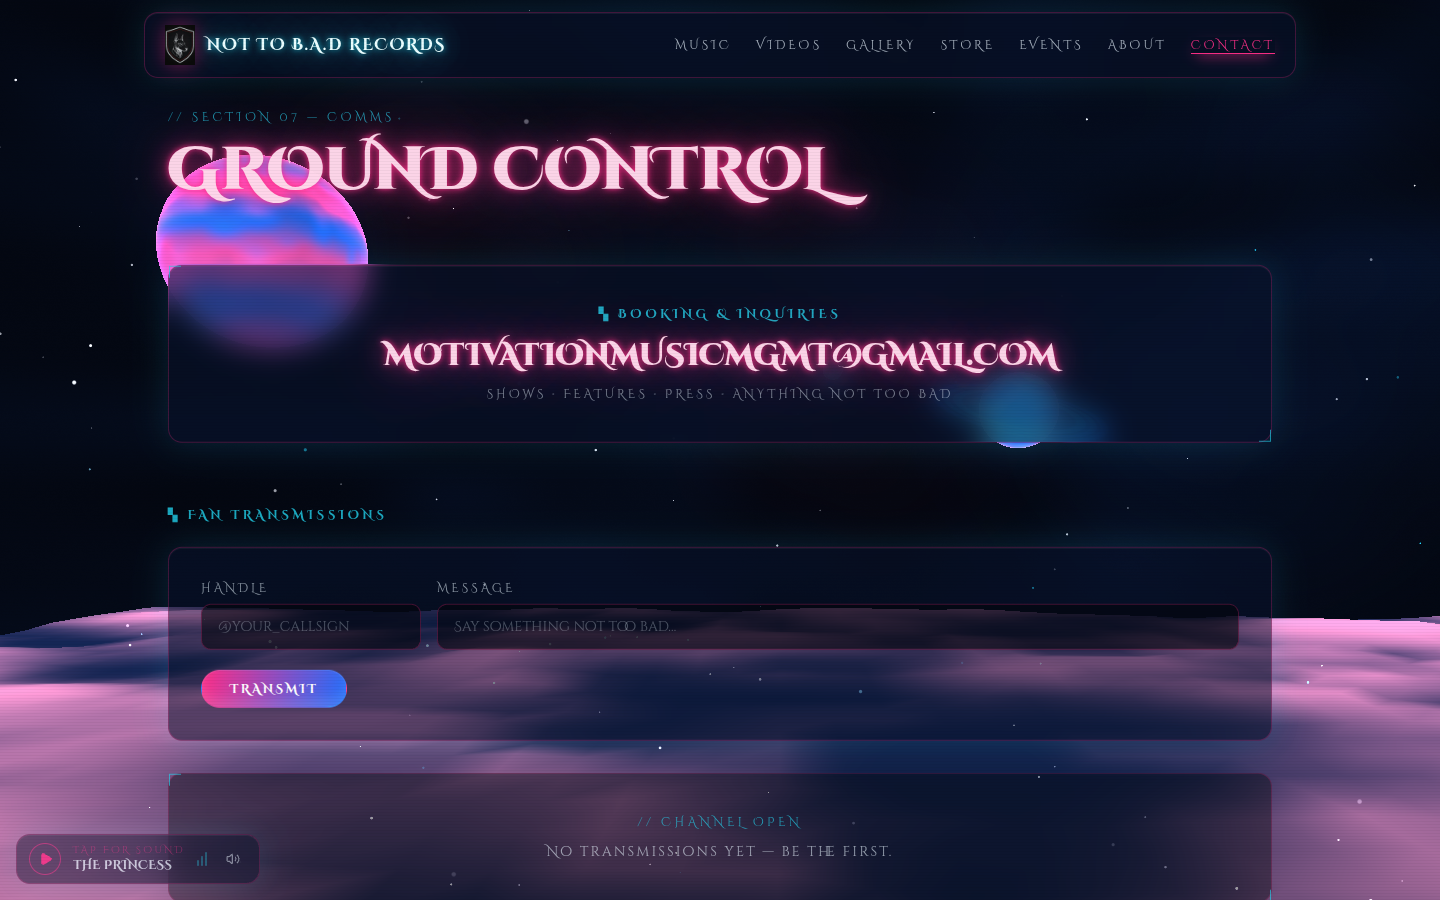
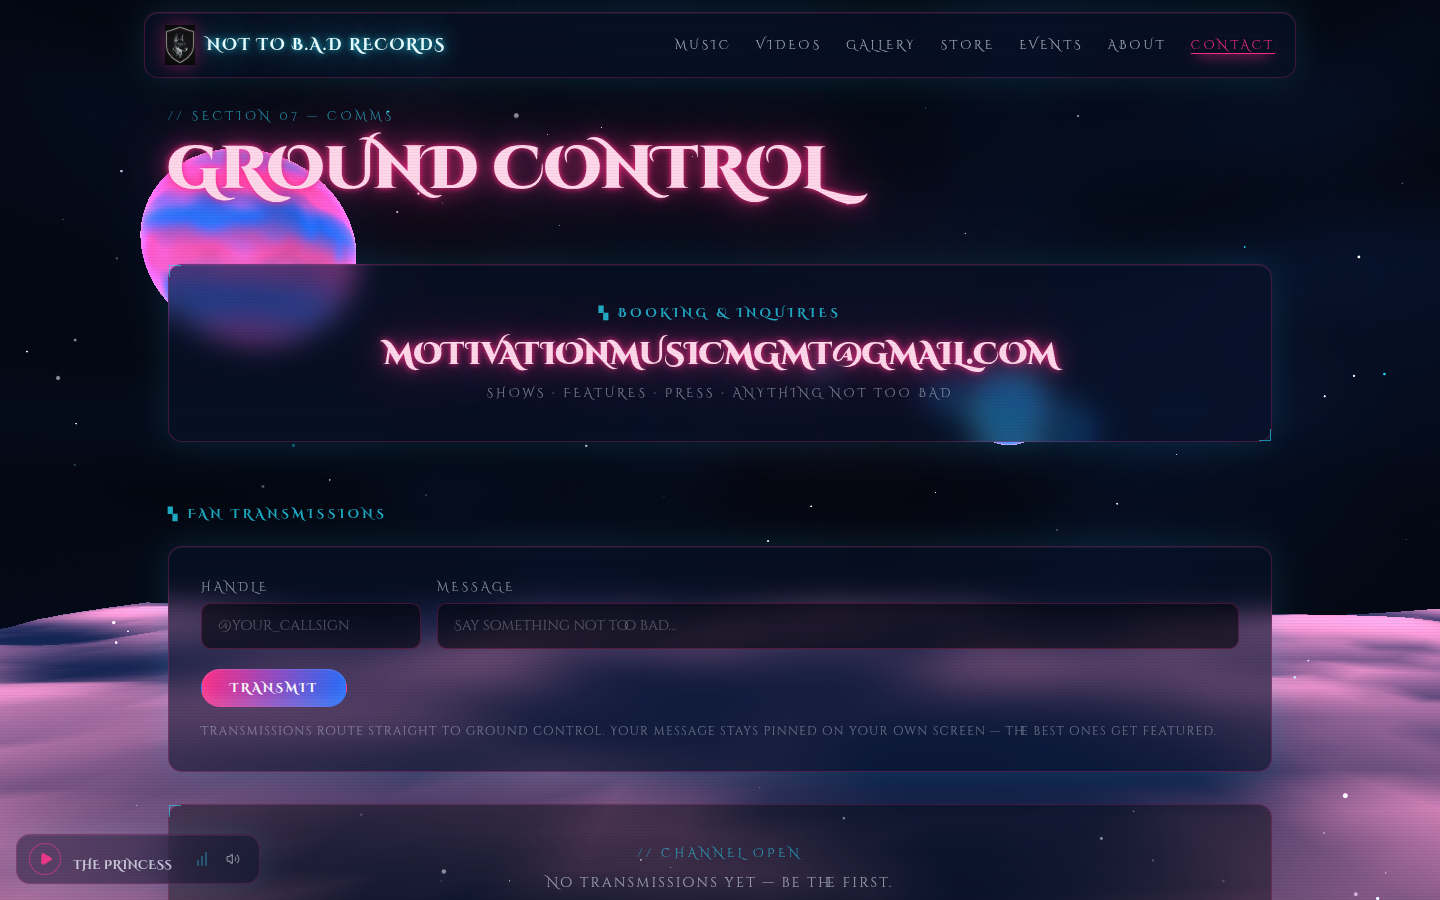
Fan transmissions actually reach the label
Guestbook posts now relay to the booking inbox instead of dying in the
visitor's browser. Delivery is awaited before the card is added, so a
message that fails to send shows an error rather than a false success.
The relay itself moves to lib/relay.ts, shared with the newsletter.

Claude-Session: https://claude.ai/code/session_01BqghB9EY3JXAhu3KfkDg6k

diff --git a/components/fanhub/guestbook-wall.tsx b/components/fanhub/guestbook-wall.tsx
@@ -7,6 +7,7 @@ import { Radio } from "lucide-react";
 import { guestbookEntries, type GuestbookEntry } from "@/lib/content";
 import { ShimmerButton } from "@/components/magicui/shimmer-button";
 import { useReducedMotion } from "@/components/sections/use-reduced-motion";
+import { relayToGroundControl } from "@/lib/relay";
 
 const STORAGE_KEY = "ntb-guestbook";
 
@@ -33,6 +34,7 @@ export function GuestbookWall() {
   const [handle, setHandle] = useState("");
   const [message, setMessage] = useState("");
   const [error, setError] = useState("");
+  const [sending, setSending] = useState(false);
 
   // Hydrate persisted entries after mount to avoid SSR mismatch.
   useEffect(() => {
@@ -49,7 +51,7 @@ export function GuestbookWall() {
     }
   }, []);
 
-  const handleSubmit = (event: FormEvent) => {
+  const handleSubmit = async (event: FormEvent) => {
     event.preventDefault();
     const trimmedHandle = handle.trim();
     const trimmedMessage = message.trim();
@@ -57,10 +59,30 @@ export function GuestbookWall() {
       setError("HANDLE AND MESSAGE REQUIRED — SIGNAL INCOMPLETE");
       return;
     }
+    const callsign = trimmedHandle.startsWith("@")
+      ? trimmedHandle
+      : `@${trimmedHandle}`;
+
     setError("");
+    setSending(true);
+    try {
+      // Deliver for real before showing it on the wall, so a card never
+      // appears for a message that never reached the label.
+      await relayToGroundControl({
+        handle: callsign,
+        message: trimmedMessage,
+        _subject: `NTB Fan Transmission — ${callsign}`,
+      });
+    } catch {
+      setError("SIGNAL LOST — TRANSMISSION FAILED, TRY AGAIN");
+      setSending(false);
+      return;
+    }
+    setSending(false);
+
     const entry: GuestbookEntry = {
       id: `gb-user-${Date.now()}`,
-      handle: trimmedHandle.startsWith("@") ? trimmedHandle : `@${trimmedHandle}`,
+      handle: callsign,
       message: trimmedMessage,
       stamp: formatStamp(new Date()),
     };
@@ -111,11 +133,12 @@ export function GuestbookWall() {
         <div className="mt-5 flex flex-wrap items-center gap-4">
           <ShimmerButton
             type="submit"
+            disabled={sending}
             shimmerColor="#22d3ee"
             background="linear-gradient(105deg, #ff2e88, #1e6fff)"
-            className="px-7 py-2.5 text-xs font-bold uppercase tracking-[0.2em]"
+            className="px-7 py-2.5 text-xs font-bold uppercase tracking-[0.2em] disabled:opacity-60"
           >
-            TRANSMIT
+            {sending ? "TRANSMITTING…" : "TRANSMIT"}
           </ShimmerButton>
           {error ? (
             <p className="text-xs font-bold tracking-[0.15em] text-sunset-pink">
@@ -123,6 +146,10 @@ export function GuestbookWall() {
             </p>
           ) : null}
         </div>
+        <p className="mt-4 text-xs tracking-[0.1em] text-foreground/40">
+          Transmissions route straight to ground control. Your message stays
+          pinned on your own screen — the best ones get featured.
+        </p>
       </form>
 
       {entries.length === 0 ? (

diff --git a/components/fanhub/newsletter-terminal.tsx b/components/fanhub/newsletter-terminal.tsx
@@ -5,13 +5,11 @@ import { motion } from "motion/react";
 
 import { ShimmerButton } from "@/components/magicui/shimmer-button";
 import { useReducedMotion } from "@/components/sections/use-reduced-motion";
+import { relayToGroundControl } from "@/lib/relay";
 
 const STORAGE_KEY = "ntb-newsletter";
 const EMAIL_RE = /^[^\s@]+@[^\s@]+\.[^\s@]{2,}$/;
 const SUCCESS_TEXT = "✓ TRANSMISSION RECEIVED — WELCOME ABOARD, CADET";
-// FormSubmit relays each signup to the label inbox — no server needed.
-const RELAY_URL =
-  "https://formsubmit.co/ajax/motivationmusicmgmt@gmail.com";
 
 export function NewsletterTerminal() {
   const reduced = useReducedMotion();
@@ -41,17 +39,10 @@ export function NewsletterTerminal() {
     setError("");
     setSending(true);
     try {
-      const res = await fetch(RELAY_URL, {
-        method: "POST",
-        headers: { "Content-Type": "application/json", Accept: "application/json" },
-        body: JSON.stringify({
-          email: trimmed,
-          _subject: "NTB Mission Control — new newsletter signup",
-          _template: "table",
-          _captcha: "false",
-        }),
+      await relayToGroundControl({
+        email: trimmed,
+        _subject: "NTB Mission Control — new newsletter signup",
       });
-      if (!res.ok) throw new Error(`relay ${res.status}`);
       setSubscribed(true);
       try {
         window.localStorage.setItem(STORAGE_KEY, "1");

diff --git a/lib/relay.ts b/lib/relay.ts
@@ -1,0 +1,24 @@
+// Backend-free form delivery. FormSubmit forwards each submission to the
+// label inbox, so the static site can receive mail with no server.
+//
+// Note: the first submission to a fresh address triggers a one-time
+// activation email that must be confirmed before delivery begins.
+
+import { contactEmail } from "@/lib/content";
+
+const RELAY_URL = `https://formsubmit.co/ajax/${contactEmail}`;
+
+/** POSTs the fields to ground control. Throws if the relay refuses. */
+export async function relayToGroundControl(
+  fields: Record<string, string>,
+): Promise<void> {
+  const res = await fetch(RELAY_URL, {
+    method: "POST",
+    headers: {
+      "Content-Type": "application/json",
+      Accept: "application/json",
+    },
+    body: JSON.stringify({ _template: "table", _captcha: "false", ...fields }),
+  });
+  if (!res.ok) throw new Error(`relay responded ${res.status}`);
+}
